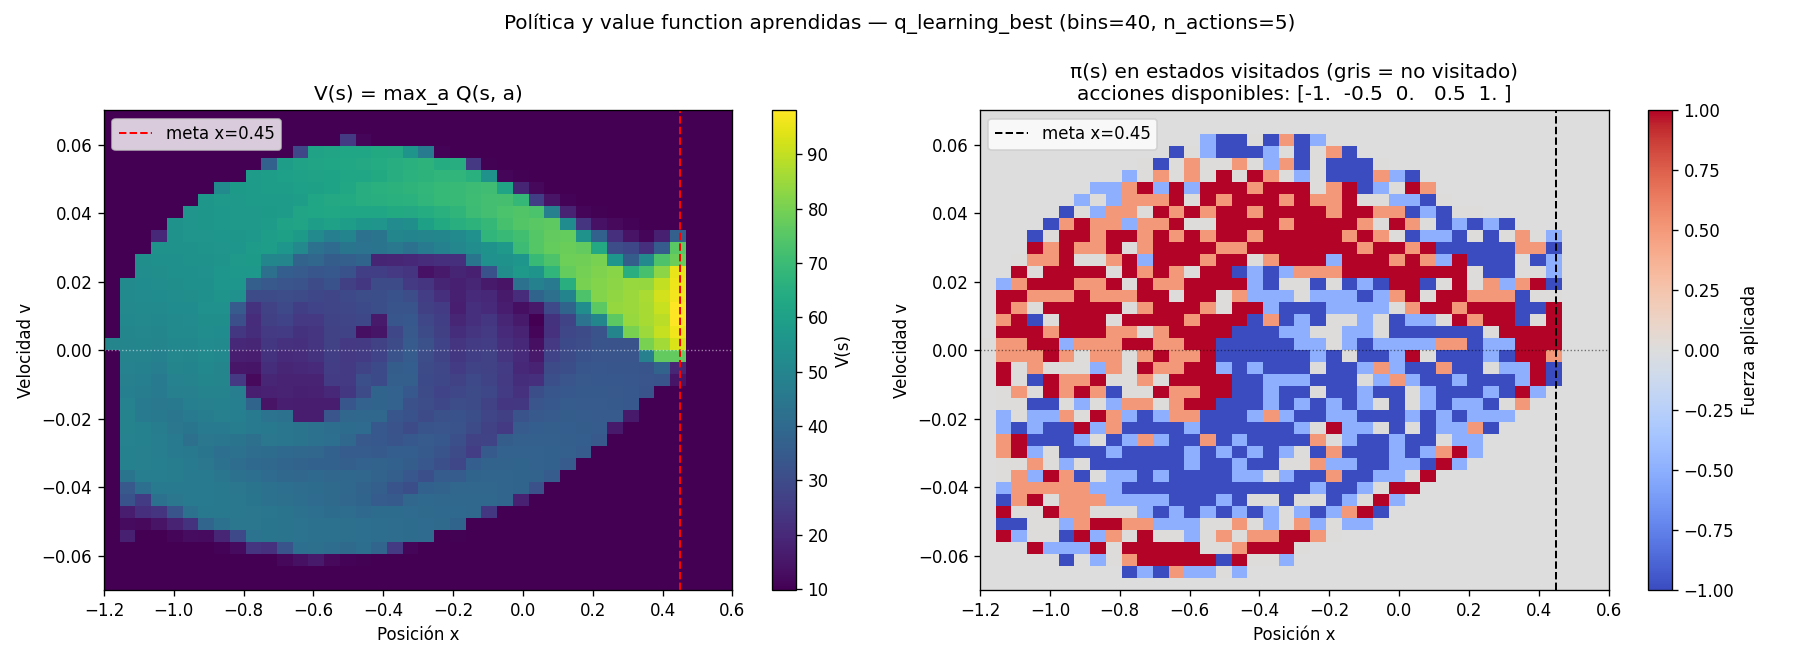
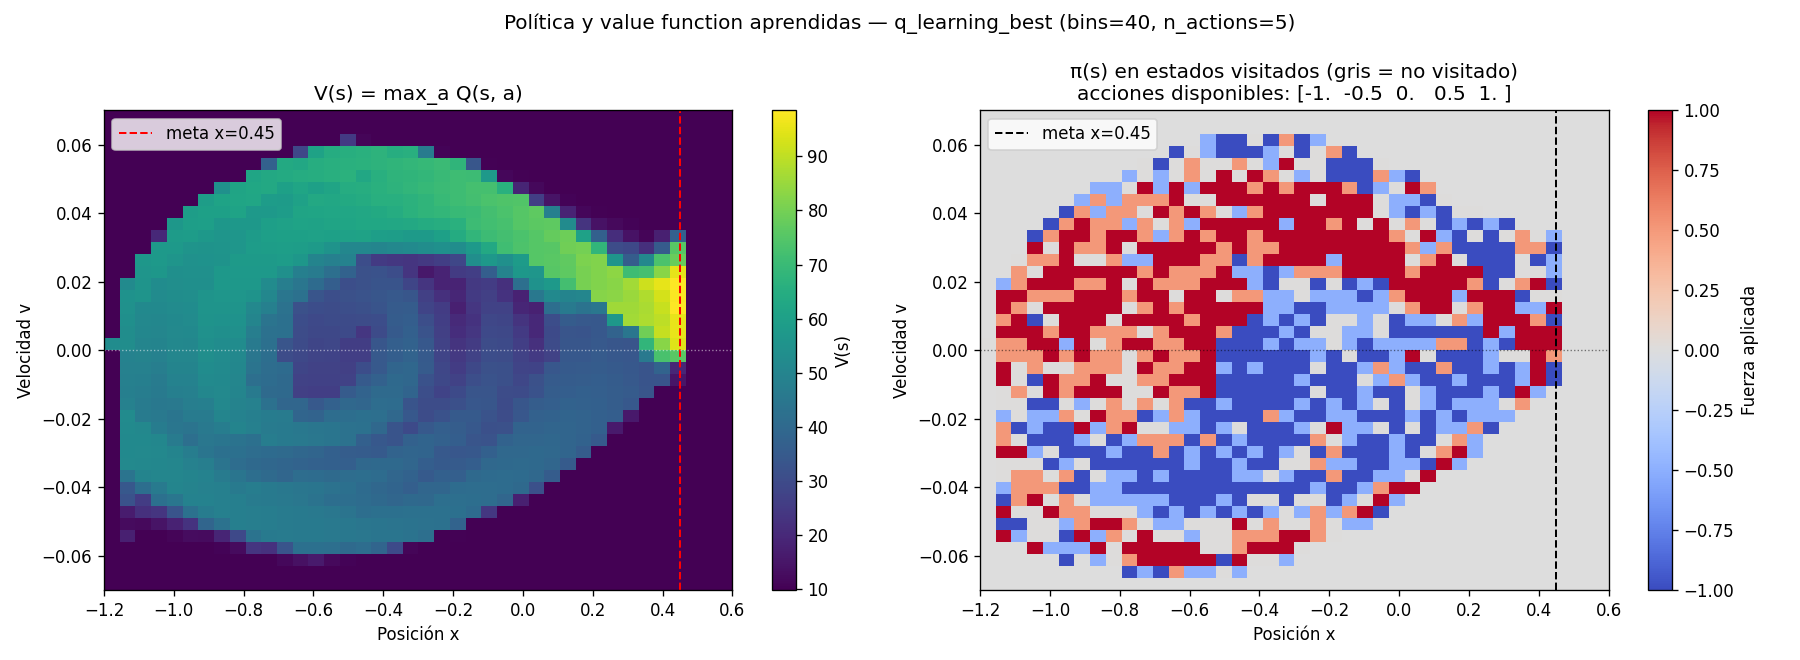
Modelos finales LOST: re-entrenar a 5000 episodio

diff --git a/Obligatorio Marzo 2026/MountainCarContinuous/shaping_experiment.py b/Obligatorio Marzo 2026/MountainCarContinuous/shaping_experiment.py
@@ -1,0 +1,69 @@
+"""Reward shaping como EXTRA (Ng-Harada-Russell 1999) — experimento con datos reales.
+
+El shaping NO forma parte del núcleo (modificar la recompensa equivale a cambiar el
+ambiente; la cátedra lo permite solo como adicional). Acá lo evaluamos de forma honesta
+para responder dos preguntas concretas, con varias semillas y análisis de varianza:
+
+  1. ¿El shaping **rescata** al Q-Learning vanilla (opt=0), que solo da 0 %?
+  2. ¿El shaping **acelera** al agente que ya resuelve por inicialización optimista (opt=10)?
+
+Compara 4 variantes × 5 seeds (recompensa real para medir; el shaping solo entra en el
+TD target durante el entrenamiento):
+
+  - vanilla (opt=0)            : Q-Learning estándar — la "trampa", 0 %.
+  - shaping (opt=0)            : ¿el shaping solo destraba la exploración?
+  - optimista (opt=10) ⭐       : nuestro enfoque del núcleo (sin tocar la recompensa).
+  - optimista+shaping (opt=10) : ¿sumar shaping acelera la convergencia?
+
+Salidas: `shaping_comparison.json` + `plots/shaping_curves.png` + `plots/shaping_box_conv.png`.
+"""
+
+from pathlib import Path
+
+import matplotlib
+matplotlib.use("Agg")
+import pandas as pd
+
+import experiments as ex
+
+HERE = Path(__file__).parent
+EPISODES = 1500   # suficiente para ver convergencia (el optimista resuelve por ~350-520)
+
+VARIANTS = [
+    ("vanilla (opt=0)",            {"optimistic_init": 0.0, "reward_shaping": False}),
+    ("shaping (opt=0)",            {"optimistic_init": 0.0, "reward_shaping": True}),
+    ("optimista (opt=10)",         {"optimistic_init": 10.0, "reward_shaping": False}),
+    ("optimista+shaping (opt=10)", {"optimistic_init": 10.0, "reward_shaping": True}),
+]
+
+
+def main():
+    (HERE / "plots").mkdir(exist_ok=True)
+    all_curves, all_finals = [], []
+    for name, ov in VARIANTS:
+        print(f"== {name} ({ov}) ==")
+        curves, finals = ex.run_config(name, ov, episodes=EPISODES)
+        all_curves.append(curves)
+        all_finals.append(finals)
+
+    curves = pd.concat(all_curves, ignore_index=True)
+    finals = pd.concat(all_finals, ignore_index=True)
+    finals.to_json(HERE / "shaping_comparison.json", orient="records", indent=2)
+
+    ex.plot_curves_band(
+        curves, HERE / "plots" / "shaping_curves.png",
+        title="Reward shaping (EXTRA): el shaping rescata al vanilla y acelera al optimista — recompensa real, 5 seeds",
+    )
+    ex.plot_box(
+        finals, "conv_ep", HERE / "plots" / "shaping_box_conv.png",
+        title="Episodio de convergencia por variante (5 seeds)",
+        ylabel="Episodio de convergencia (éxito móvil ≥ 90%)",
+    )
+
+    print("\n=== Resumen (mediana / varianza sobre 5 seeds) ===")
+    print(ex.summary(finals).to_string(index=False))
+    print("\nGuardado: shaping_comparison.json + plots/shaping_curves.png + plots/shaping_box_conv.png")
+
+
+if __name__ == "__main__":
+    main()